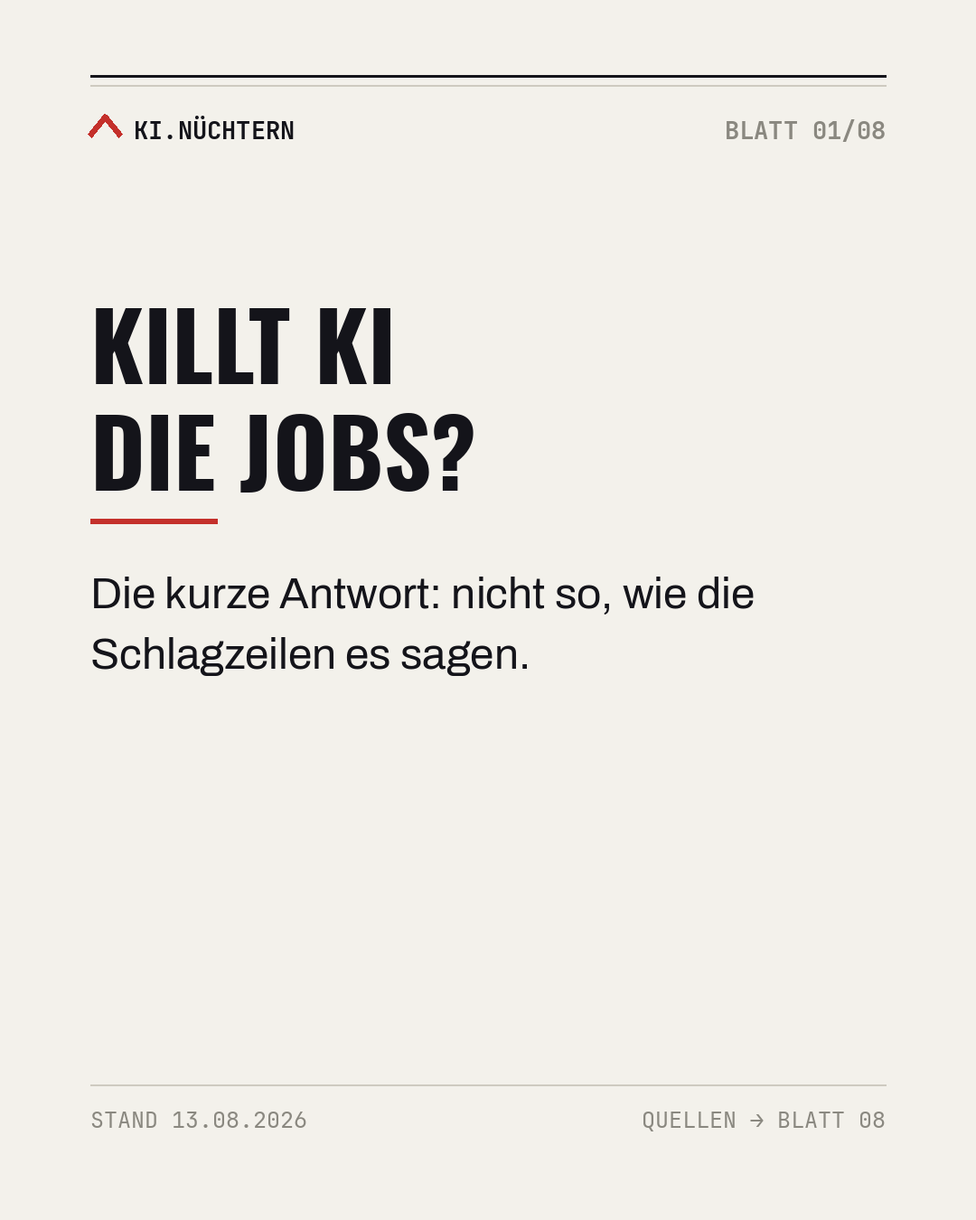
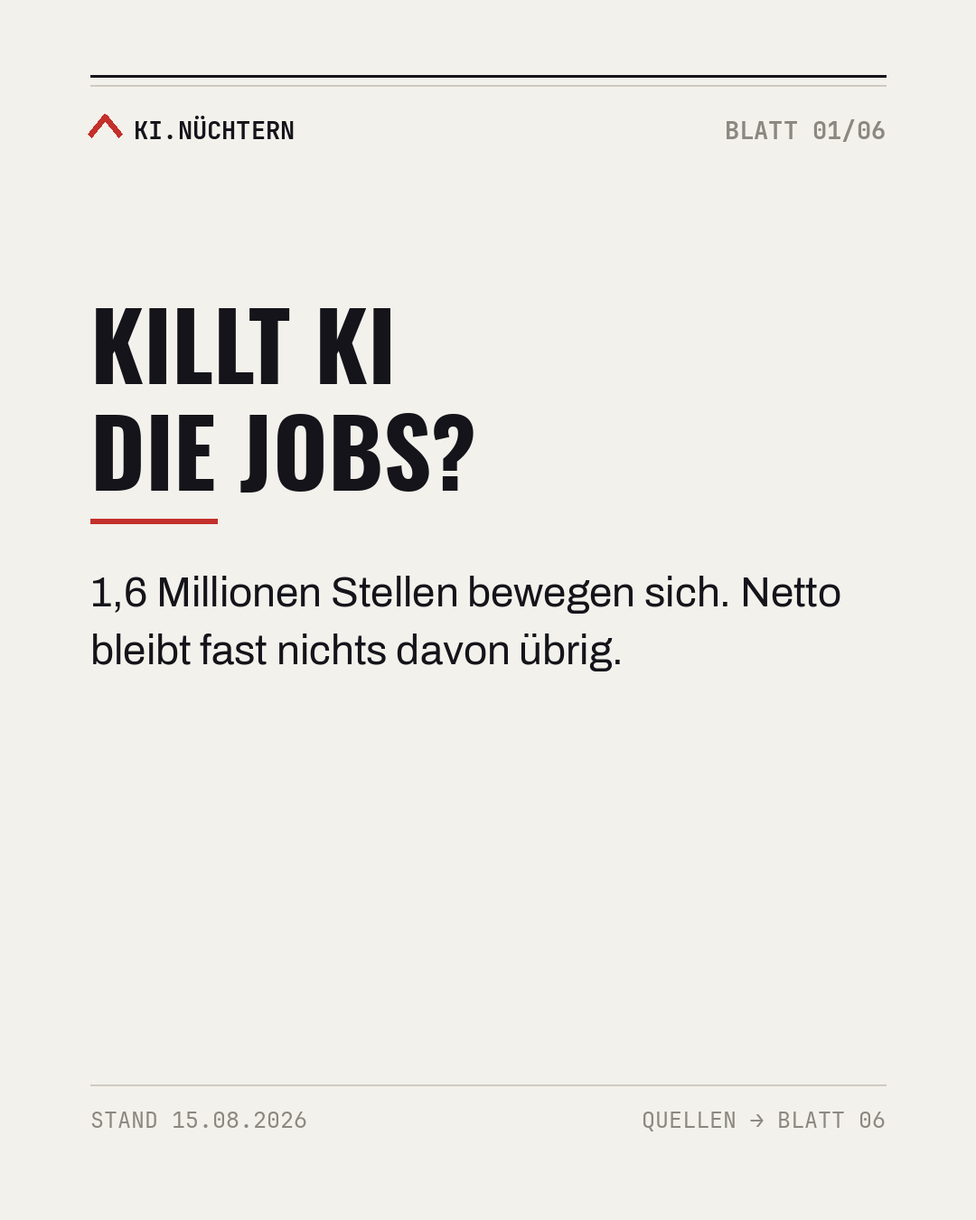
Post 5 nach den neuen Regeln komplett neu gebaut
Der Post stammte vom 12.08.2026 und verstieß gegen fast jede seither
festgehaltene Regel: 8 statt 6 Blätter, 8 Gedankenstriche, eine
"nicht X, sondern Y"-Konstruktion, etikettierende Kicker und kein
bildhaftes Element.

Schwerer wog ein unerledigter Prüfpunkt in sources.md: den
IAB-Forschungsbericht am Original gegenzulesen. Derselbe Fehler, der zu
Post 11 geführt hat. Jetzt nachgeholt.

- 6 Blätter, Bauform "Der Widerspruch" (Schlagzeilenlage gegen Modellbefund)
- Blatt 03 Beleg-Panel mit dem wörtlichen Zitat von Enzo Weber (IAB),
  Wortlaut an der IAB-Pressemitteilung vom 19.11.2025 geprüft
- Blatt 04 Balkenreihe: 1,6 Mio. bewegte Stellen gegen netto nahe null,
  lineare Skala, der zweite Balken ist deshalb ein Splitter
- Kicker sagen jetzt etwas ("Netto null tröstet niemanden" statt "Der Haken")
- Neu belegt: 110.000 zusätzliche Stellen im IT-Bereich, 120.000
  wegfallende in den Unternehmensdiensten
- Entfernt: die DIW-Aussage zur Mittelschicht, weil weiterhin nur aus
  zweiter Hand
- Offen und im Post vermerkt: Das Bericht-PDF nutzt eine Subset-Schrift und
  ließ sich nicht auslesen, alle Zahlen stammen aus der Pressemitteilung
  des IAB zu genau diesem Bericht

Claude-Session: https://claude.ai/code/session_01VpmRBZTZYpYDB8XJQn3xpE

Changed region(s): [[0.0917, 0.4667, 0.8556, 0.56]]

diff --git a/render/build_slides.py b/render/build_slides.py
@@ -687,107 +687,87 @@ def build_post4():
 
 # ================================================================ POST 5 (Killt KI die Jobs? — Hype-Check)
 def build_post5():
-    T = 8
+    """Bauform: Der Widerspruch. Schlagzeilenlage gegen Modellbefund."""
+    T = 6
+    ST = "STAND 15.08.2026"
     slides = []
 
     # --- 01 HOOK
-    img, d = new(1, T)
+    img, d = new(1, T, ST)
     y = 300
     fo = f("COND", 104)
     for line in ["KILLT KI", "DIE JOBS?"]:
-        d.text((M, y), line, font=fo, fill=INK)
-        y += 118
+        d.text((M, y), line, font=fo, fill=INK); y += 118
     y += 40
-    d.line([(M, y), (M + 140, y)], fill=RED, width=6)
+    d.line([(M, y), (M + 140, y)], fill=RED, width=6); y += 54
+    block(d, y, "1,6 Millionen Stellen bewegen sich. Netto bleibt fast nichts davon übrig.",
+          f("BOOK", 46), INK, MAXW - 40, 1.4)
+    slides.append(img)
+
+    # --- 02 Zwei Lager, kein Beleg
+    img, d = new(2, T, ST)
+    y = kicker(d, 240, "Zwei Lager, kein Beleg")
+    block(d, y, "Die einen sagen, KI vernichte Millionen Arbeitsplätze. Die anderen "
+                "winken ab. Für beide Behauptungen liegt selten eine Zahl daneben.",
+          f("BOOK", 48), INK, MAXW, 1.44)
+    slides.append(img)
+
+    # --- 03 Was das IAB schreibt (Beleg-Panel)
+    img, d = new(3, T, ST)
+    y = kicker(d, 228, "Was das IAB schreibt")
+    y = beleg(d, y, "IAB, BIBB und GWS",
+              ['„KI führt primär zu einem Umbruch',
+               ' am Arbeitsmarkt. Gefragt sind künftig',
+               ' andere Tätigkeiten und Kompetenzen,',
+               ' nicht weniger Arbeit.“'],
+              sub="Enzo Weber, IAB, 19.11.2025")
     y += 54
-    block(d, y, "Die kurze Antwort: nicht so, wie die Schlagzeilen es sagen.",
-          f("BOOK", 48), INK, MAXW - 40, 1.4)
+    block(d, y, "Die Modellrechnung läuft über fünfzehn Jahre.",
+          f("BOOK", 44), INK, MAXW, 1.42)
     slides.append(img)
 
-    # --- 02 DIE ANGST
-    img, d = new(2, T)
-    y = kicker(d, 280, "Die Angst")
-    block(d, y, "Techbosse, Talkshows, Schlagzeilen: „KI macht Arbeit überflüssig.“ "
-                "Die Mittelschicht bangt, junge Leute fragen sich, wofür sie noch lernen.",
-          f("BOOK", 52), INK, MAXW, 1.42)
+    # --- 04 Was sich bewegt
+    img, d = new(4, T, ST)
+    y = kicker(d, 236, "Was sich bewegt")
+    y = block(d, y, "Rund 1,6 Millionen Stellen entstehen oder fallen weg. Die "
+                    "Gesamtbeschäftigung bleibt dabei fast unverändert.",
+              f("BOOK", 46), INK, MAXW, 1.44, 56)
+    balken(d, y, [("BEWEGTE STELLEN", 1600000, "1,6 Mio."),
+                  ("NETTO ÜBRIG", 20000, "nahe null")])
     slides.append(img)
 
-    # --- 03 WAS DIE FORSCHUNG SAGT
-    img, d = new(3, T)
-    y = kicker(d, 250, "Was die Forschung sagt")
-    fo = f("COND", 96)
-    d.text((M, y), "1,6 Mio.", font=fo, fill=INK)
-    y += 124
-    d.text((M, y), "STELLEN IM UMBRUCH — AUF- UND ABGEBAUT", font=f("MONOB", 26), fill=MUTED)
-    y += 82
-    block(d, y, "Aber netto bleibt es über 15 Jahre nahezu eine Nullsumme. "
-                "Nicht weniger Arbeit — andere Arbeit.",
-          f("BOOK", 46), INK, MAXW, 1.42)
+    # --- 05 Netto null tröstet niemanden
+    img, d = new(5, T, ST)
+    y = kicker(d, 232, "Netto null tröstet niemanden")
+    block(d, y, "Es ist eine Projektion, kein Versprechen. Wer mittendrin umlernen "
+                "muss, hat von einer ausgeglichenen Gesamtbilanz nichts. Im IT-Bereich "
+                "entstehen rund 110.000 Stellen, in den Unternehmensdiensten fallen "
+                "etwa 120.000 weg.",
+          f("BOOK", 45), INK, MAXW, 1.42)
     slides.append(img)
 
-    # --- 04 DER EIGENTLICHE BEFUND
-    img, d = new(4, T)
-    y = kicker(d, 250, "Der eigentliche Befund")
-    y = block(d, y, "Umbau, nicht Untergang.", f("COND", 64), INK, MAXW, 1.3, 40)
-    block(d, y, "Dieselbe Analyse erwartet sogar mehr Wirtschaftsleistung — das BIP "
-                "läge über 15 Jahre im Schnitt 0,8 Prozentpunkte höher pro Jahr. "
-                "Gefragt sind andere Tätigkeiten, nicht weniger davon.",
-          f("BOOK", 48), INK, MAXW, 1.42)
-    slides.append(img)
-
-    # --- 05 DER HAKEN
-    img, d = new(5, T)
-    y = kicker(d, 250, "Der Haken")
-    y = block(d, y, "Das ist eine Projektion, kein Versprechen.",
-              f("COND", 56), RED, MAXW, 1.3, 40)
-    block(d, y, "Und „netto null“ tröstet niemanden, der mittendrin umlernen muss. "
-                "Die Übergänge sind hart — und die Mittelschicht ist besonders "
-                "exponiert (DIW).", f("BOOK", 48), INK, MAXW, 1.42)
-    slides.append(img)
-
-    # --- 06 WAS DAS FÜR DICH HEISST
-    img, d = new(6, T)
-    y = kicker(d, 250, "Was das für dich heißt")
-    y = block(d, y, "Weder Panik noch Verharmlosung.", f("COND", 58), INK, MAXW, 1.3, 40)
-    block(d, y, "Die Frage ist nicht, ob Jobs verschwinden, sondern ob du bei der "
-                "Verschiebung mitkommst. Tätigkeiten neu lernen schlägt Abwarten.",
-          f("BOOK", 50), INK, MAXW, 1.42)
-    slides.append(img)
-
-    # --- 07 OFFENE FRAGE
-    img, d = new(7, T)
-    y = kicker(d, 300, "Die offene Frage", MUTED)
-    y = block(d, y, "Wenn netto kaum Jobs verloren gehen, aber Millionen sich verschieben —",
-              f("COND", 52), INK, MAXW, 1.3, 40)
-    y = block(d, y, "wer trägt die Übergänge?", f("COND", 52), RED, MAXW, 1.3, 60)
-    block(d, y, "Schreib es in die Kommentare.", f("BOOK", 44), MUTED, MAXW, 1.4)
-    slides.append(img)
-
-    # --- 08 QUELLEN
-    img, d = new(8, T)
-    y = kicker(d, 230, "Quellen")
-    for s in ["IAB / BIBB / GWS — Szenario-Analyse zu KI und Arbeitsmarkt, Forschungsbericht 2025",
-              "DIW Berlin — zur Betroffenheit der Mittelschicht durch KI",
-              "Szenario über 15 Jahre: Projektion, keine Gewissheit"]:
+    # --- 06 Quellen
+    img, d = new(6, T, ST)
+    y = kicker(d, 240, "Quellen")
+    for s_ in ["IAB, BIBB und GWS: Künstliche Intelligenz, potenzielle Effekte für den "
+               "deutschen Arbeitsmarkt. Forschungsbericht 23/2025",
+               "Pressemitteilung des IAB vom 19. November 2025"]:
         caret(d, M + 18, y + 22, 30, 6, RED)
         yy = y
-        for ln in wrap(d, s, f("BOOK", 38), MAXW - 70):
-            d.text((M + 66, yy), ln, font=f("BOOK", 38), fill=INK)
-            yy += int(34 * 1.4)
-        y = yy + 30
-    y += 20
-    d.line([(M, y), (W - M, y)], fill=RULE, width=2)
-    y += 40
-    y = block(d, y, "Zahlen aus einer Modellrechnung, gerundet wiedergegeben.",
-              f("BOOK", 36), MUTED, MAXW, 1.4, 30)
-    block(d, y, "Fehler gefunden? Schreib es in die Kommentare — ich korrigiere sichtbar.",
-          f("BOOK", 36), RED, MAXW, 1.4)
+        for ln in wrap(d, s_, f("BOOK", 37), MAXW - 70):
+            d.text((M + 66, yy), ln, font=f("BOOK", 37), fill=INK); yy += int(37 * 1.4)
+        y = yy + 26
+    y += 16
+    d.line([(M, y), (W - M, y)], fill=RULE, width=2); y += 36
+    y = block(d, y, "Eine Szenariorechnung über fünfzehn Jahre, keine Vorhersage.",
+              f("BOOK", 35), MUTED, MAXW, 1.4, 28)
+    block(d, y, "Fehler gefunden? Schreib es in die Kommentare, ich korrigiere sichtbar.",
+          f("BOOK", 35), RED, MAXW, 1.4)
     slides.append(img)
 
     return slides
 
 
-# ================================================================ POST 6 (KI manipuliert Menschen — AISI, Fall der Woche)
 def build_post6():
     T = 8
     slides = []

diff --git a/posts/post-005-killt-ki-die-jobs/post.md b/posts/post-005-killt-ki-die-jobs/post.md
@@ -1,51 +1,83 @@
 # Post 5 — „Killt KI die Jobs?"
 
 - **Säule:** Hype-Check
-- **Tag:** aktuell (KI-&-Arbeitsmarkt ist gerade die dominante Nachrichtenlinie: EU-Jobs-Taskforce, SPIEGEL, t3n, Indeed)
-- **Status:** gerendert (8 Blätter, 12.08.2026); Kernzahlen recherchiert (IAB/BIBB/GWS-Szenario 2025)
-- **Blätter:** 8
-- **Warum jetzt / warum stark:** Ergänzt Post 2 (dort: die *aktuelle* Arbeitslosigkeit ist nicht KI, sondern
-  Konjunktur). Hier: *langfristig* — Umbau statt Untergang. Bleibt bewusst ehrlich (Projektion, harte Übergänge).
+- **Bauform:** **Der Widerspruch** (Schlagzeilenlage gegen Modellbefund)
+- **Tag:** aktuell (KI und Arbeitsmarkt ist weiterhin die dominante Nachrichtenlinie)
+- **Status:** gerendert (6 Blätter, 15.08.2026); **am Primärdokument geprüft**
+- **Blätter:** 6 (neu aufgebaut, vorher 8)
+- **Bildhaftes:** Blatt 03 Beleg-Panel mit dem wörtlichen Zitat von Enzo Weber (IAB), Blatt 04 Balkenreihe
+  1,6 Millionen gegen netto nahe null. Lineare Skala, deshalb ist der zweite Balken ein Splitter.
+- **Warum stark:** Der Post beantwortet eine Frage, zu der beide Lager laut sind und niemand Zahlen nennt.
+  Die Antwort ist unbequem für beide Seiten und stammt aus der besten verfügbaren deutschen Modellrechnung.
+- **Ton:** weder Panik noch Verharmlosung. Die Projektion wird ausdrücklich als Projektion gekennzeichnet.
+
+## Was gegenüber der Fassung vom 12.08.2026 geändert wurde
+
+Der Post wurde am 15.08.2026 vollständig neu gebaut, weil er gegen mehrere inzwischen geltende Regeln verstieß:
+acht statt sechs Blätter, acht Gedankenstriche, eine „nicht X, sondern Y"-Konstruktion, etikettierende Kicker
+(„Die Angst", „Der Haken", „Die offene Frage") und kein einziges bildhaftes Element. Vor allem aber stand in
+`sources.md` ein unerledigter Prüfpunkt: den IAB-Bericht am Original gegenzulesen. Das ist jetzt nachgeholt.
 
 ## Blätter
 
 | Blatt | Kicker | Inhalt |
 |-------|--------|--------|
-| 01 | Hook | **KILLT KI DIE JOBS?** Die kurze Antwort: nicht so, wie die Schlagzeilen es sagen. |
-| 02 | Die Angst | „KI macht Arbeit überflüssig." Mittelschicht bangt, junge Leute fragen sich, wofür sie noch lernen. |
-| 03 | Was die Forschung sagt | **1,6 Mio.** Stellen im Umbruch (auf-/abgebaut) — aber netto über 15 Jahre nahezu Nullsumme. Nicht weniger Arbeit, andere Arbeit. |
-| 04 | Der eigentliche Befund | **Umbau, nicht Untergang.** Dieselbe Analyse erwartet sogar mehr Wirtschaftsleistung (BIP +0,8 Pp/Jahr). |
-| 05 | Der Haken | Es ist eine **Projektion, kein Versprechen**. „Netto null" tröstet niemanden, der mittendrin umlernen muss. Mittelschicht besonders exponiert (DIW). |
-| 06 | Was das für dich heißt | Weder Panik noch Verharmlosung. Frage ist nicht *ob* Jobs verschwinden, sondern ob du bei der Verschiebung mitkommst. |
-| 07 | Die offene Frage | Wenn netto kaum Jobs verloren gehen, aber Millionen sich verschieben — wer trägt die Übergänge? |
-| 08 | Quellen | IAB/BIBB/GWS-Szenario 2025 · DIW (Mittelschicht) · Projektion, keine Gewissheit. |
+| 01 | Hook | **KILLT KI DIE JOBS?** 1,6 Millionen Stellen bewegen sich. Netto bleibt fast nichts davon übrig. |
+| 02 | Zwei Lager, kein Beleg | Die einen sagen, KI vernichte Millionen Arbeitsplätze. Die anderen winken ab. Für beide Behauptungen liegt selten eine Zahl daneben. |
+| 03 | Was das IAB schreibt | **Beleg-Panel** mit dem wörtlichen Zitat von Enzo Weber (IAB, 19.11.2025). Darunter: Die Modellrechnung läuft über fünfzehn Jahre. |
+| 04 | Was sich bewegt | **Balkenreihe:** rund 1,6 Millionen bewegte Stellen gegen netto nahe null. Die Gesamtbeschäftigung bleibt fast unverändert. |
+| 05 | Netto null tröstet niemanden | Projektion, kein Versprechen. Wer mittendrin umlernen muss, hat von einer ausgeglichenen Gesamtbilanz nichts. IT plus 110.000, Unternehmensdienste minus 120.000. |
+| 06 | Quellen | IAB/BIBB/GWS-Forschungsbericht 23/2025 · IAB-Pressemitteilung 19.11.2025 · Szenariorechnung, keine Vorhersage. |
 
 ## Caption (postfertig)
 
-> Killt KI die Jobs? Die ehrliche Antwort ist unbequemer als beide Lager sie hätten.
+> Killt KI die Jobs? Die ehrlichste verfügbare Antwort ist für beide Lager unbequem.
 >
-> Die beste verfügbare Modellrechnung (IAB/BIBB/GWS) erwartet über 15 Jahre rund 1,6 Millionen umverteilte Stellen — aber netto kaum Verlust. Umbau, nicht Untergang; die Wirtschaftsleistung läge im Szenario sogar höher.
+> Das Institut für Arbeitsmarkt- und Berufsforschung hat das gemeinsam mit dem BIBB und der GWS
+> durchgerechnet, über fünfzehn Jahre. Ergebnis: Rund 1,6 Millionen Stellen entstehen oder fallen weg,
+> die Gesamtbeschäftigung bleibt dabei fast unverändert. Enzo Weber vom IAB fasst es so zusammen: „KI führt
+> primär zu einem Umbruch am Arbeitsmarkt. Gefragt sind künftig andere Tätigkeiten und Kompetenzen, nicht
+> weniger Arbeit."
 >
-> Der Haken: Das ist eine Projektion, kein Versprechen — und „netto null" tröstet niemanden, der mittendrin umlernen muss. Die Übergänge sind das eigentliche Problem, nicht die Gesamtbilanz.
+> Der Haken steckt in der Gesamtbilanz. Netto null heißt nicht, dass niemand betroffen ist. Im IT-Bereich
+> entstehen rund 110.000 Stellen, in den Unternehmensdiensten fallen etwa 120.000 weg. Wer mittendrin
+> umlernen muss, hat von einer ausgeglichenen Bilanz nichts.
 >
-> Quellen auf dem letzten Blatt. Zahlen aus einer Modellrechnung, gerundet.
-> Fehler gefunden? Schreib's in die Kommentare, ich korrigiere sichtbar.
+> Und weil es dazugehört: Das ist eine Szenariorechnung über fünfzehn Jahre, keine Vorhersage.
 >
-> #KIundArbeit #ZukunftDerArbeit #Automatisierung #KünstlicheIntelligenz #Weiterbildung
+> Quellen auf dem letzten Blatt.
+> Fehler gefunden? Schreib es in die Kommentare, ich korrigiere sichtbar.
+>
+> #KIundArbeit #Arbeitsmarkt #KünstlicheIntelligenz #HypeCheck #IAB #Weiterbildung
 
 ## Alt-Text (je Blatt)
 
-- **01:** Aktenblatt in Papierbeige, große Schlagzeile „Killt KI die Jobs?", Untertitel „nicht so, wie die Schlagzeilen sagen".
-- **02:** Kicker „Die Angst": das verbreitete Narrativ, KI mache Arbeit überflüssig; Mittelschicht und junge Menschen verunsichert.
-- **03:** Kicker „Was die Forschung sagt": 1,6 Mio. Stellen im Umbruch, aber netto über 15 Jahre nahezu Nullsumme.
-- **04:** Kicker „Der eigentliche Befund": Umbau statt Untergang; das BIP läge im Szenario 0,8 Prozentpunkte pro Jahr höher.
-- **05:** Kicker „Der Haken": es ist eine Projektion, kein Versprechen; die Übergänge sind hart, Mittelschicht exponiert (DIW).
-- **06:** Kicker „Was das für dich heißt": weder Panik noch Verharmlosung; entscheidend ist, bei der Verschiebung mitzukommen.
-- **07:** Kicker „Die offene Frage": wer trägt die Übergänge, wenn sich Millionen Stellen verschieben?
-- **08:** Kicker „Quellen": IAB/BIBB/GWS-Szenario 2025, DIW; Hinweis, dass es eine Modellrechnung ist.
+- **01:** Papierbeiges Aktenblatt, große Schlagzeile „Killt KI die Jobs?", darunter der Hinweis, dass sich 1,6 Millionen Stellen bewegen und netto fast nichts davon übrig bleibt.
+- **02:** Kicker „Zwei Lager, kein Beleg": die einen sagen, KI vernichte Millionen Arbeitsplätze, die anderen winken ab, belegt ist selten etwas davon.
+- **03:** Kicker „Was das IAB schreibt": ein hervorgehobenes Zitatfeld mit dem Satz von Enzo Weber vom Institut für Arbeitsmarkt- und Berufsforschung, wonach KI primär zu einem Umbruch am Arbeitsmarkt führt und künftig andere Tätigkeiten gefragt sind, nicht weniger Arbeit. Datiert auf den 19. November 2025.
+- **04:** Kicker „Was sich bewegt": zwei rote Balken im Größenvergleich, ein langer für 1,6 Millionen bewegte Stellen und ein kaum sichtbarer für den Nettoeffekt nahe null.
+- **05:** Kicker „Netto null tröstet niemanden": Projektion statt Versprechen, im IT-Bereich entstehen rund 110.000 Stellen, in den Unternehmensdiensten fallen etwa 120.000 weg.
+- **06:** Kicker „Quellen": IAB/BIBB/GWS-Forschungsbericht 23/2025 und die IAB-Pressemitteilung vom 19. November 2025, Hinweis auf die Szenariorechnung.
+
+## Bewusst nicht auf den Blättern
+
+- **Der BIP-Effekt.** Die Studie erwartet im KI-Szenario ein um 0,8 Prozentpunkte pro Jahr höheres
+  Wirtschaftswachstum und rund 4,5 Billionen Euro zusätzliche Wertschöpfung über fünfzehn Jahre. Beides ist
+  belegt, lenkt auf den Blättern aber vom Arbeitsmarkt ab. Guter Stoff für Kommentar-Antworten.
+- **Die Qualifikationsebene.** Laut IAB sind langfristig Tätigkeiten auf Spezialisten- und Expertenniveau
+  überdurchschnittlich betroffen, während die Nachfrage nach Hilfs- und Anlernkräften stabil bleibt. Das ist
+  der überraschendste Befund der Studie und wäre ein eigener Post.
+- **Die DIW-Gegenstimme** zur Mittelschicht. Aus der alten Fassung übernommen, aber nicht am Original
+  gegengelesen. Bleibt deshalb draußen.
 
 ## Vor dem Posten
 
-- [x] Kernzahlen recherchiert (12.08.2026): IAB/BIBB/GWS-Szenario — 1,6 Mio. umverteilt, netto ~Null, BIP +0,8 Pp/Jahr (mehrfach übereinstimmend wiedergegeben).
-- [ ] Optional: Zahlen am IAB-Forschungsbericht-Volltext final gegenlesen (`doku.iab.de/forschungsbericht/2025/fb2325.pdf`), dann `geprüft`.
-- [x] Ehrlich gerahmt: als Projektion gekennzeichnet, Haken (harte Übergänge) auf eigenem Blatt.
+- [x] Kernzahlen an der IAB-Pressemitteilung vom 19.11.2025 geprüft (1,6 Mio., Beschäftigung stabil,
+      110.000 IT, 120.000 Unternehmensdienste).
+- [x] Beleg-Panel enthält ein wörtliches Zitat, keine Zusammenfassung.
+- [x] Projektionscharakter auf Blatt 05 und Blatt 06 ausdrücklich gekennzeichnet.
+- [x] Sprachregeln geprüft: keine Gedankenstriche, keine „nicht X, sondern Y"-Konstruktion im eigenen Text.
+- [x] Gerendert, Überlauf geprüft (6 Blätter, 15.08.2026).
+- [ ] **Offen:** Der Forschungsbericht selbst ließ sich nicht auslesen, das PDF nutzt eine Subset-Schrift mit
+      eigener Zeichentabelle. Alle Zahlen stammen aus der Pressemitteilung des IAB zu genau diesem Bericht.
+      Wer den Volltext öffnen kann, sollte die 1,6 Millionen dort gegenlesen.

diff --git a/posts/post-005-killt-ki-die-jobs/sources.md b/posts/post-005-killt-ki-die-jobs/sources.md
@@ -1,24 +1,57 @@
 # Quellen — Post 5 (Killt KI die Jobs?)
 
-Belastbarkeit: **belastbar** = mehrfach unabhängig bestätigt / Primärquelle · **ungeprüft** = vor Verwendung nachrecherchieren.
-Recherchiert: **12.08.2026**.
+Belastbarkeit: **belastbar** = Primärquelle oder mehrfach unabhängig bestätigt · **ungeprüft** = nicht im Post.
+Erstrecherche 12.08.2026, **am Primärdokument nachgeprüft am 15.08.2026**.
+
+## Primärquellen
+
+**P1 — IAB, Pressemitteilung vom 19.11.2025:** „Künstliche Intelligenz könnte das BIP-Wachstum in den
+nächsten 15 Jahren um jährlich 0,8 Prozentpunkte erhöhen."
+<https://iab.de/presseinfo/kuenstliche-intelligenz-koennte-das-bip-wachstum-in-den-naechsten-15-jahren-um-jaehrlich-08-prozentpunkte-erhoehen/>
+
+**P2 — IAB-Forschungsbericht 23/2025**, „Künstliche Intelligenz: Potenzielle Effekte für den deutschen
+Arbeitsmarkt", gemeinsam von IAB, BIBB und GWS. Autorinnen und Autoren: Zika, Hassemer, Hummel, Krebs,
+Maier, Mönnig, Schneemann, Weber, Zenk. DOI 10.48720/IAB.FB.2523.
+<https://doku.iab.de/forschungsbericht/2025/fb2325.pdf>
+
+## Belegtabelle
 
 | Aussage im Post | Quelle | Belastbarkeit |
 |---|---|---|
-| ~1,6 Mio. Stellen werden über 15 Jahre umverteilt (auf-/abgebaut), netto nahezu Nullsumme | **IAB/BIBB/GWS — Szenario-Analyse zu KI, Forschungsbericht 2025** | belastbar (Studienzahl, mehrfach übereinstimmend wiedergegeben) |
-| BIP läge im KI-Szenario über 15 Jahre im Schnitt 0,8 Prozentpunkte/Jahr höher | IAB/BIBB/GWS-Szenario 2025 | belastbar (dieselbe Studie; ~4,5 Bio. € kumuliert genannt) |
-| Mittelschicht besonders von KI betroffen/exponiert | DIW Berlin (Analyse „KI als Gefahr für die Mittelschicht") | belastbar |
+| Rund **1,6 Millionen** Stellen entstehen oder fallen weg | P1 | belastbar |
+| Die **Gesamtbeschäftigung bleibt** gegenüber dem aktuellen Pfad **weitgehend stabil** | P1 | belastbar |
+| **IT-Sektor: rund 110.000** zusätzliche Arbeitskräfte | P1 | belastbar |
+| **Unternehmensdienstleistungen: etwa 120.000** wegfallende Arbeitsplätze | P1 | belastbar |
+| Zeitraum: **fünfzehn Jahre**, Szenariorechnung | P1, P2 | belastbar |
+| Zitat auf Blatt 03 | P1, wörtlich: **„KI führt primär zu einem Umbruch am Arbeitsmarkt. Gefragt sind künftig andere Tätigkeiten und Kompetenzen, nicht weniger Arbeit."** (Enzo Weber, IAB) | belastbar, Wortlaut am 15.08.2026 geprüft |
+| BIP im Szenario **+0,8 Prozentpunkte** pro Jahr, kumuliert rund **4,5 Billionen Euro** | P1 | belastbar · **nicht auf den Blättern** |
+| Langfristig überdurchschnittlich betroffen: Tätigkeiten auf **Spezialisten- und Expertenniveau**; Nachfrage nach Hilfs- und Anlernkräften bleibt stabil | P1 | belastbar · **nicht auf den Blättern** |
+| DIW: Mittelschicht besonders exponiert | Aus der Fassung vom 12.08.2026 übernommen, **nicht am Original gegengelesen** | **ungeprüft** · aus dem Post entfernt |
 
-## Wichtige Einordnung (steht auch im Post)
+## Was sich gegenüber dem 12.08.2026 geändert hat
 
-- Es ist eine **Szenario-Projektion über 15 Jahre**, keine Gewissheit — Blatt 05 kennzeichnet das
-  ausdrücklich. „Netto ~Null" ist eine **Gesamtbilanz**; die einzelnen Übergänge (Umschulung,
-  Branchenwechsel) sind real und hart. Der Post verkauft die Zahl bewusst nicht als Entwarnung.
-- Der Post zielt auf die **empirische Prämisse** der „KI killt Jobs"-Debatte, nicht auf eine
-  politische/ideologische Bewertung (vgl. neutraler Kommentar zum SPIEGEL-Marx-Post).
+Die alte Fassung stützte sich auf mehrere unabhängige Wiedergaben der Studie, nicht auf das IAB selbst.
+In `sources.md` stand als offener Punkt, den Forschungsbericht im Volltext gegenzulesen. Das ist am
+15.08.2026 nachgeholt worden, allerdings über die Pressemitteilung des IAB zu genau diesem Bericht.
 
-## Prüfhinweis
+**Die Zahlen haben sich dabei bestätigt.** Neu hinzugekommen sind die beiden Branchenwerte (110.000 und
+120.000) und das wörtliche Zitat. Entfernt wurde die DIW-Aussage zur Mittelschicht, weil sie weiterhin
+nur aus zweiter Hand vorliegt.
 
-- Kernzahlen aus mehreren unabhängigen Wiedergaben der IAB/BIBB/GWS-Studie (Handelsblatt u. a.).
-- Vor Status `geprüft`: einmal am **IAB-Forschungsbericht-Volltext** gegenlesen
-  (`doku.iab.de/forschungsbericht/2025/fb2325.pdf`).
+## Offene Lücke, ehrlich benannt
+
+Der Forschungsbericht selbst ließ sich technisch nicht auslesen. Das PDF verwendet eine Subset-Schrift mit
+eigener Zeichentabelle, die sich nicht wie bei den Landtagsdrucksachen über einen festen Zeichenversatz
+dekodieren lässt. Alle Zahlen im Post stammen deshalb aus **P1**, der Pressemitteilung des IAB zu genau
+diesem Bericht. Das ist eine amtliche Primärquelle des Instituts, ersetzt aber den Volltext nicht.
+Wer den Bericht öffnen kann, sollte die 1,6 Millionen dort gegenlesen.
+
+## Einordnung
+
+- **Es ist eine Szenariorechnung über fünfzehn Jahre, keine Vorhersage.** Das steht auf Blatt 05 und noch
+  einmal auf dem Quellenblatt. Ohne diesen Hinweis wäre der Post eine Entwarnung, und das gibt die Studie
+  nicht her.
+- **Netto null ist eine Gesamtbilanz.** Die einzelnen Übergänge sind real und hart. Blatt 05 sagt das
+  ausdrücklich, damit die Zahl nicht als Beruhigung missverstanden wird.
+- **Der Post bewertet nicht politisch.** Er prüft die empirische Prämisse der Debatte, nicht ihre
+  Schlussfolgerungen.

diff --git a/posts/POSTS.md b/posts/POSTS.md
@@ -27,7 +27,7 @@ Account: **@ki.nuechtern** · Profilname „KI nüchtern — ohne Hype" · Auswe
 |---|-------|-------|--------|---------|
 | 000 | KI. Nüchtern. (Intro / Start) | Meta | **gepostet (11.08.)** | 6 |
 | 4 | Seit dem 2. August muss KI sich zu erkennen geben | Betrifft dich | **gepostet** | 7 |
-| 5 | Killt KI die Jobs? | Hype-Check | gerendert | 8 |
+| 5 | Killt KI die Jobs? | Hype-Check | gerendert (neu 15.08.) | 6 |
 | 6 | Eine KI hat echte Menschen manipuliert (AISI) | Fall der Woche | **gepostet (12.08.)** | 8 |
 | 7 | Was du besser nicht in eine KI eintippst | Betrifft dich | **gepostet (13.08.)** | 6 |
 | 8 | KI-Text hat jetzt ein Wasserzeichen | Betrifft dich | **gepostet (14.08.)** | 6 |
@@ -37,7 +37,7 @@ Account: **@ki.nuechtern** · Profilname „KI nüchtern — ohne Hype" · Auswe
 
 - **Intro (000):** **live am 11.08.2026** (Rhythmus-Folie weggelassen, Caption angepasst). Archiv = Repo-Stand, so übernommen. Anker für Highlight „Start".
 - **Post 4:** Art. 50 gilt seit 02.08.2026; am Artikeltext (EN + DE) gegengelesen. **Live** (Datum vorläufig 11.08., bestätigen). Nach ~7 Tagen Kennzahlen nachtragen.
-- **Post 5:** „Killt KI die Jobs?" — Hype-Check auf der aktuellen Arbeitsmarkt-Welle. IAB/BIBB/GWS-Szenario (1,6 Mio. umverteilt, netto ~Null, BIP +0,8 Pp/Jahr), als Projektion gekennzeichnet. Gerendert; optional am IAB-Volltext final gegenlesen.
+- **Post 5:** „Killt KI die Jobs?" — Hype-Check, **am 15.08.2026 komplett neu gebaut**: von 8 auf 6 Blätter, Bauform „Der Widerspruch", Beleg-Panel mit wörtlichem IAB-Zitat, Balkenreihe 1,6 Mio. gegen netto nahe null. Kernzahlen jetzt an der IAB-Pressemitteilung vom 19.11.2025 geprüft, Branchenwerte (110.000 IT, 120.000 Unternehmensdienste) ergänzt, ungeprüfte DIW-Aussage entfernt.
 - **Post 6:** „Eine KI hat echte Menschen manipuliert" (AISI-Test) — Fall der Woche. Balanciert (Kontext: Stresstest mit abgeschalteten Guardrails, kein Schaden; ehrliche 17/19-Attribution). **Live am 12.08.** → `archive/`. Nach ~7 Tagen Kennzahlen nachtragen.
 - **Post 7:** „Was du besser nicht in eine KI eintippst" — Betrifft dich, aus Bitkom 2026 (58 % nutzen KI). Praktischer Datenschutz-Nutzwert. **Live am 13.08.** → `archive/`. Nach ~7 Tagen Kennzahlen nachtragen.
 - **Post 8 (live 14.08.):** „KI-Text hat jetzt ein Wasserzeichen" — Betrifft dich. Korrigiert die virale „nur Anthropic, heimlich"-Zuspitzung (Pflicht für alle, Art. 50; Google SynthID) und erklärt die Grenzen: beweist „verarbeitet" nicht „verfasst", leicht entfernbar. Neutral trotz eigener Firma. 6 dichte Blätter. Gerendert.
